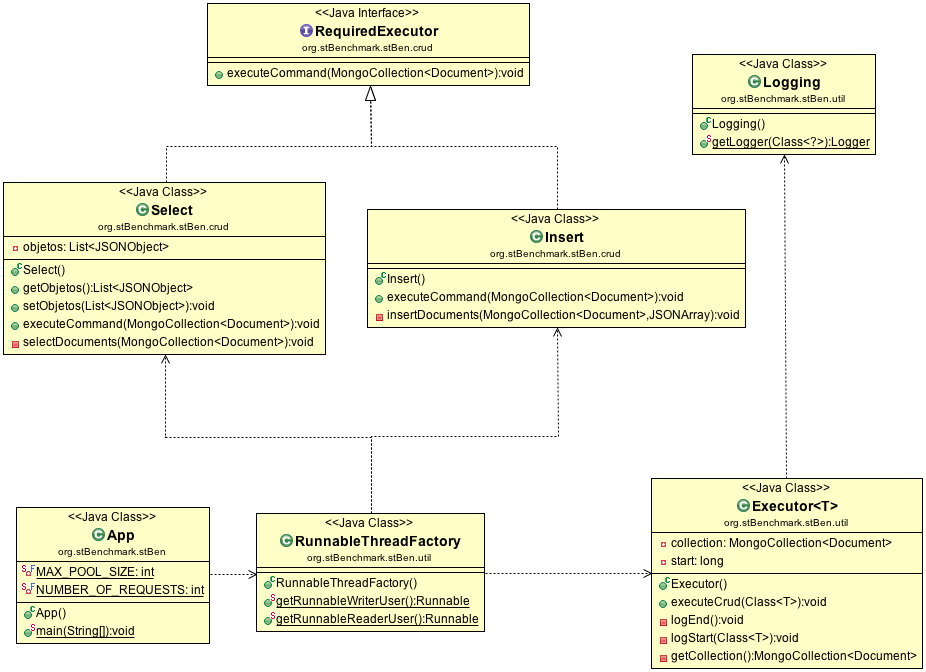
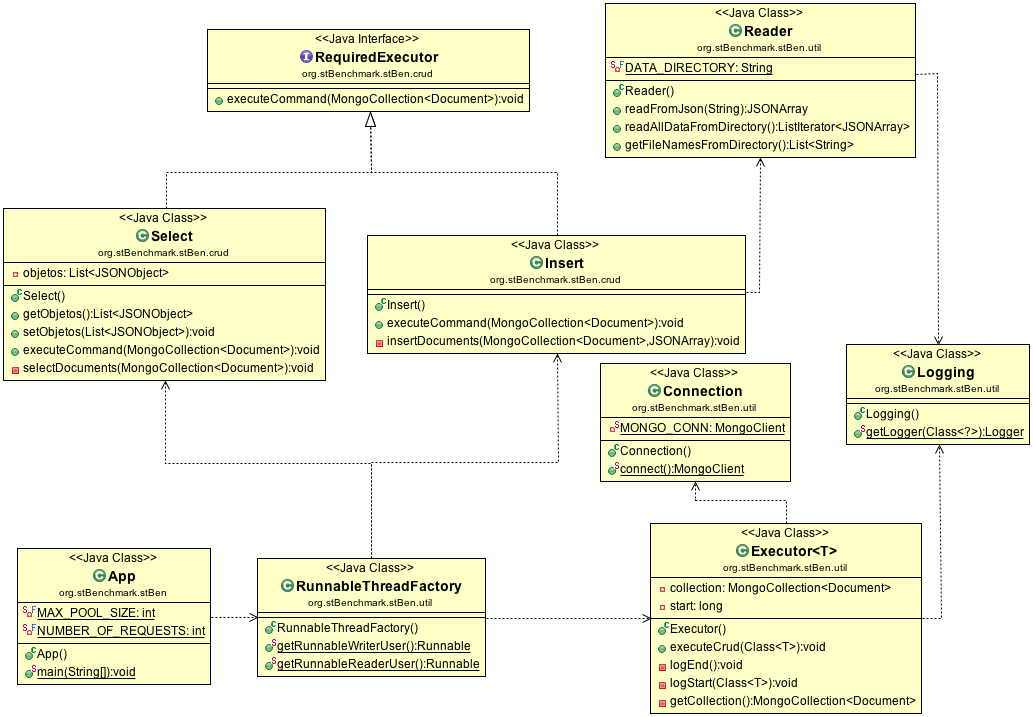
relationship between logging and connection classes removed

diff --git a/src/main/java/org/stBenchmark/stBen/util/Connection.java b/src/main/java/org/stBenchmark/stBen/util/Connection.java
@@ -1,8 +1,6 @@
 package org.stBenchmark.stBen.util;
 
 
-import org.stBenchmark.stBen.util.Logging;
-
 import com.mongodb.MongoClient;
 
 public class Connection {
@@ -11,7 +9,7 @@ public class Connection {
 	public static MongoClient connect() {
 		if (MONGO_CONN == null) {
 			MONGO_CONN = new MongoClient( "localhost" , 27017 );
-			Logging.getLogger(Connection.class).info("Connectado!");
+			
 		}
 		return MONGO_CONN;
 	}

diff --git a/src/main/java/org/stBenchmark/stBen/util/Executor.java b/src/main/java/org/stBenchmark/stBen/util/Executor.java
@@ -50,6 +50,7 @@ public class Executor<T> {
 	
 	private MongoCollection<Document> getCollection() {
 		MongoClient mongo = Connection.connect();
+		Logging.getLogger(Connection.class).info("Connectado!");
 		MongoDatabase db = mongo.getDatabase("stBen_db");
 		MongoCollection<Document> collection = db.getCollection("people");
 		return collection;
